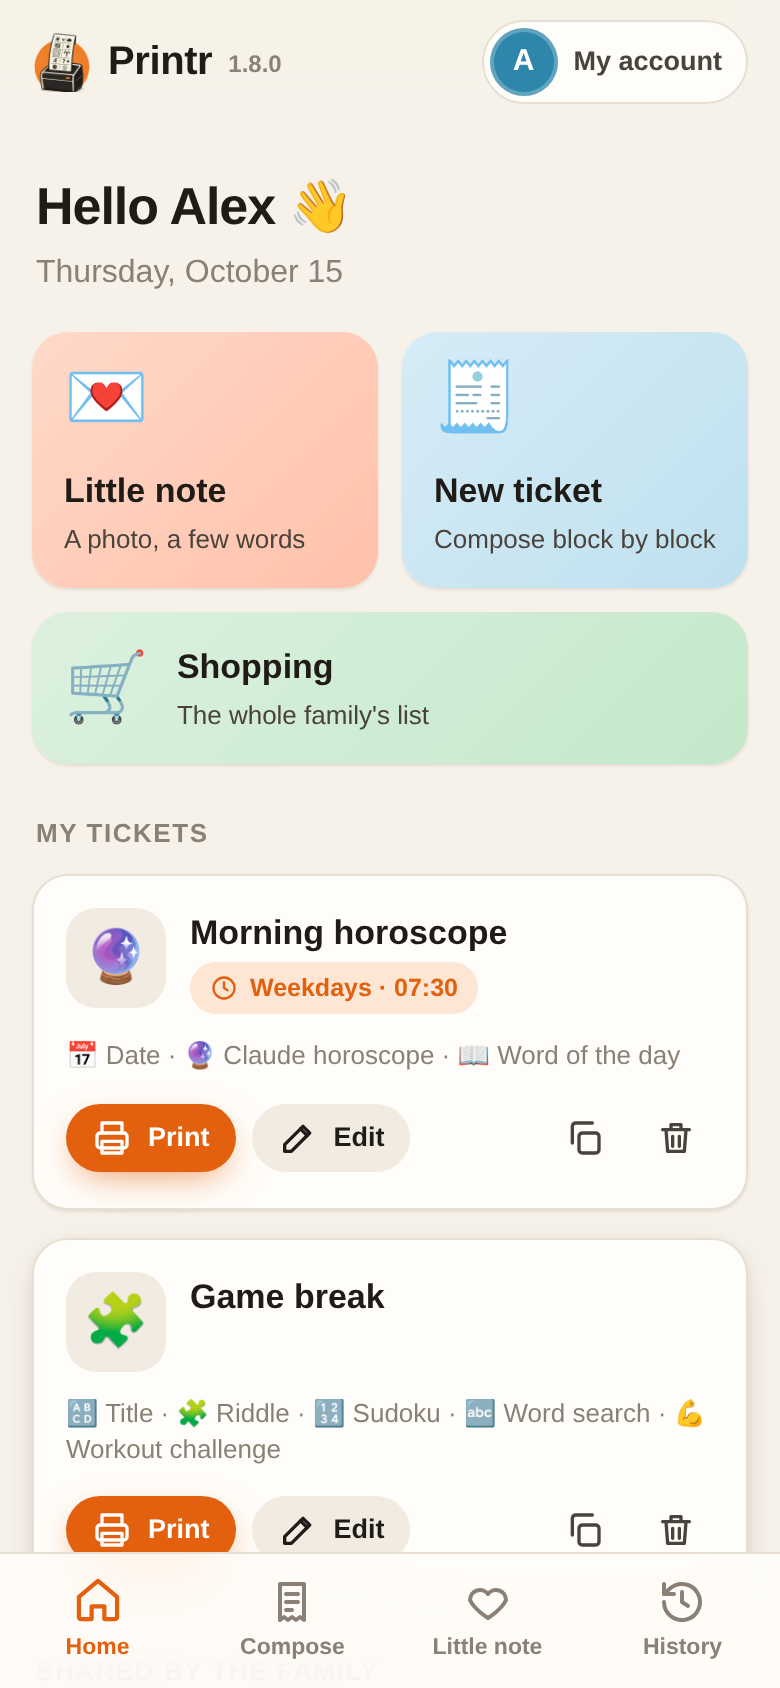
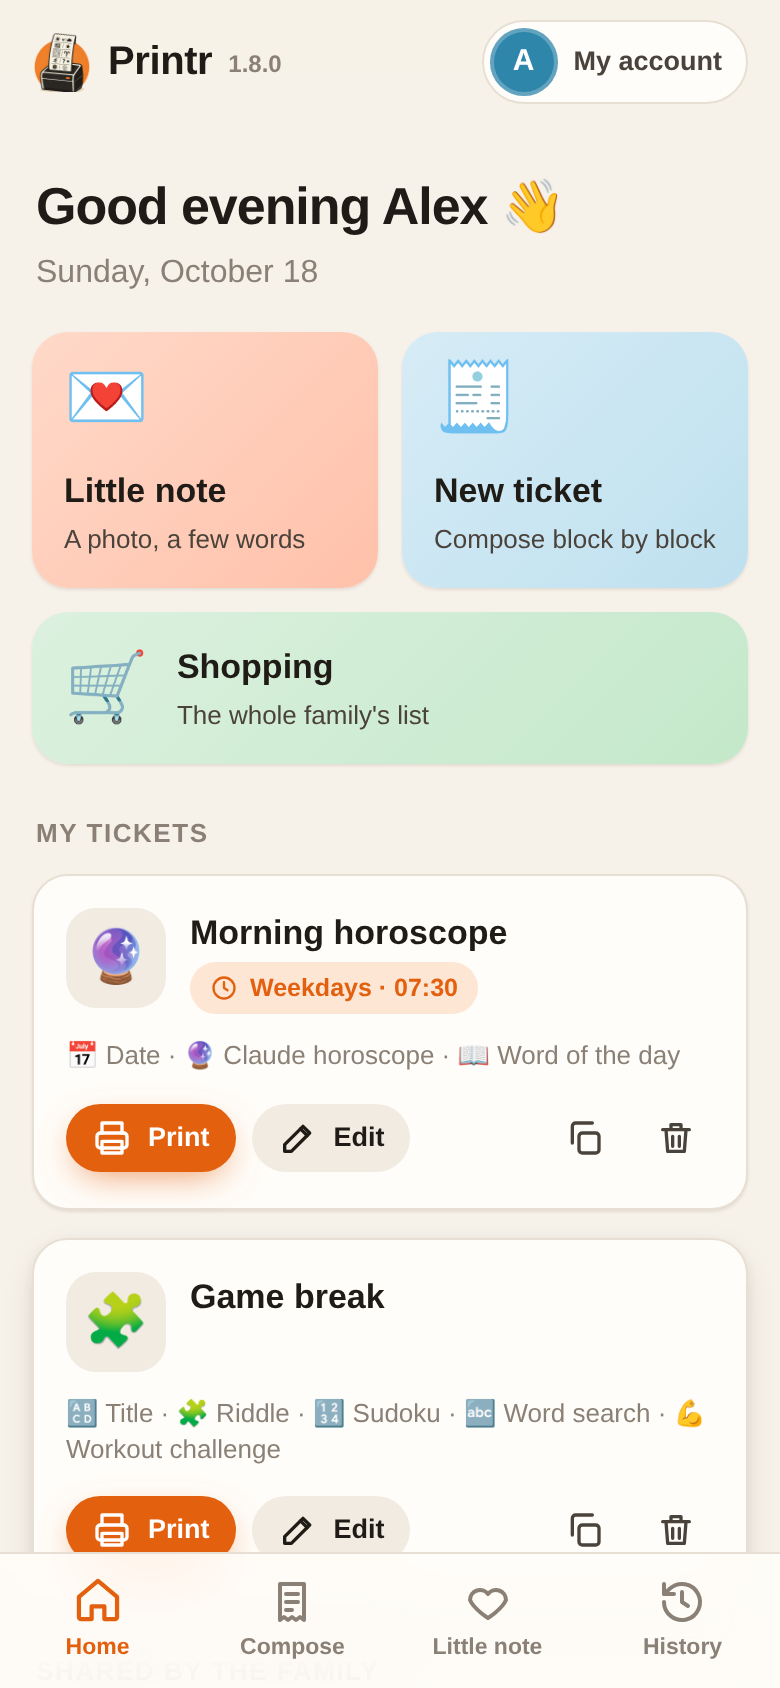
Préparation de la 1.8.0 « Ives » : CHANGELOG et captures
- CHANGELOG : section 1.8.0 datée du 18 octobre ; ajout de l'imprimante en
  suspens (pas de ticket en double, historique juste, tickets suivants en file)
  et de l'historique qui se met à jour tout seul.
- Captures de l'appli et tickets vitrines régénérés (fr et en).

Changed region(s): [[0.0308, 0.0924, 0.6154, 0.1848], [0.6462, 0.0924, 0.7077, 0.154]]

diff --git a/CHANGELOG.md b/CHANGELOG.md
@@ -9,6 +9,8 @@ Pierre-Simon Fournier, Johannes Gutenberg, Richard Hoe…
 
 ## [Unreleased]
 
+## [1.8.0] “Ives” - 2026-10-18
+
 ### Added
 - **Printer missing? Tickets wait.** The server checks every 10 seconds that the printer is there (USB device
   present, network printer accepting connections). When it is not, tickets — already laid out — go into a
@@ -17,7 +19,12 @@ Pierre-Simon Fournier, Johannes Gutenberg, Richard Hoe…
 - The app shows the printer state (sidebar), a banner with the number of waiting tickets when it is missing,
   a “printer missing, the ticket will come out when it is back” message, and “waiting” / “came out at 9:12,
   late” in the history.
-- A print that blocks (printer on but stuck) gives up after 30 seconds instead of hanging.
+- **Printer stuck? No double ticket.** When the printer stops taking data (cover open, out of paper) for more
+  than 30 seconds, the app says so (“cover, paper?”) instead of hanging. The ticket comes out once the printer
+  is ready, only once, and the history then shows it as printed. Tickets sent in the meantime wait their turn
+  and come out right after it, never mixed with it.
+- The history refreshes on its own (every 10 seconds, when you come back to the tab, and when the printer
+  state changes): a waiting ticket turns to “printed” without reloading the app.
 - **Tonight's sky** block: visible planets with their direction and height, visible International Space Station
   passes until dawn, moon phase and shooting star showers, for your city. Computed locally (JPL orbital
   elements for the planets, SGP4 for the ISS, whose orbit comes from CelesTrak once a day).
@@ -165,7 +172,8 @@ First release.
 - One-command installation on a Raspberry Pi, no sudo needed afterwards.
 - Windows development with a dev container and a printing relay.
 
-[Unreleased]: https://github.com/XNinety9/Printr/compare/v1.7.0...HEAD
+[Unreleased]: https://github.com/XNinety9/Printr/compare/v1.8.0...HEAD
+[1.8.0]: https://github.com/XNinety9/Printr/compare/v1.7.0...v1.8.0
 [1.7.0]: https://github.com/XNinety9/Printr/compare/v1.6.1...v1.7.0
 [1.6.1]: https://github.com/XNinety9/Printr/compare/v1.6.0...v1.6.1
 [1.6.0]: https://github.com/XNinety9/Printr/compare/v1.5.0...v1.6.0
